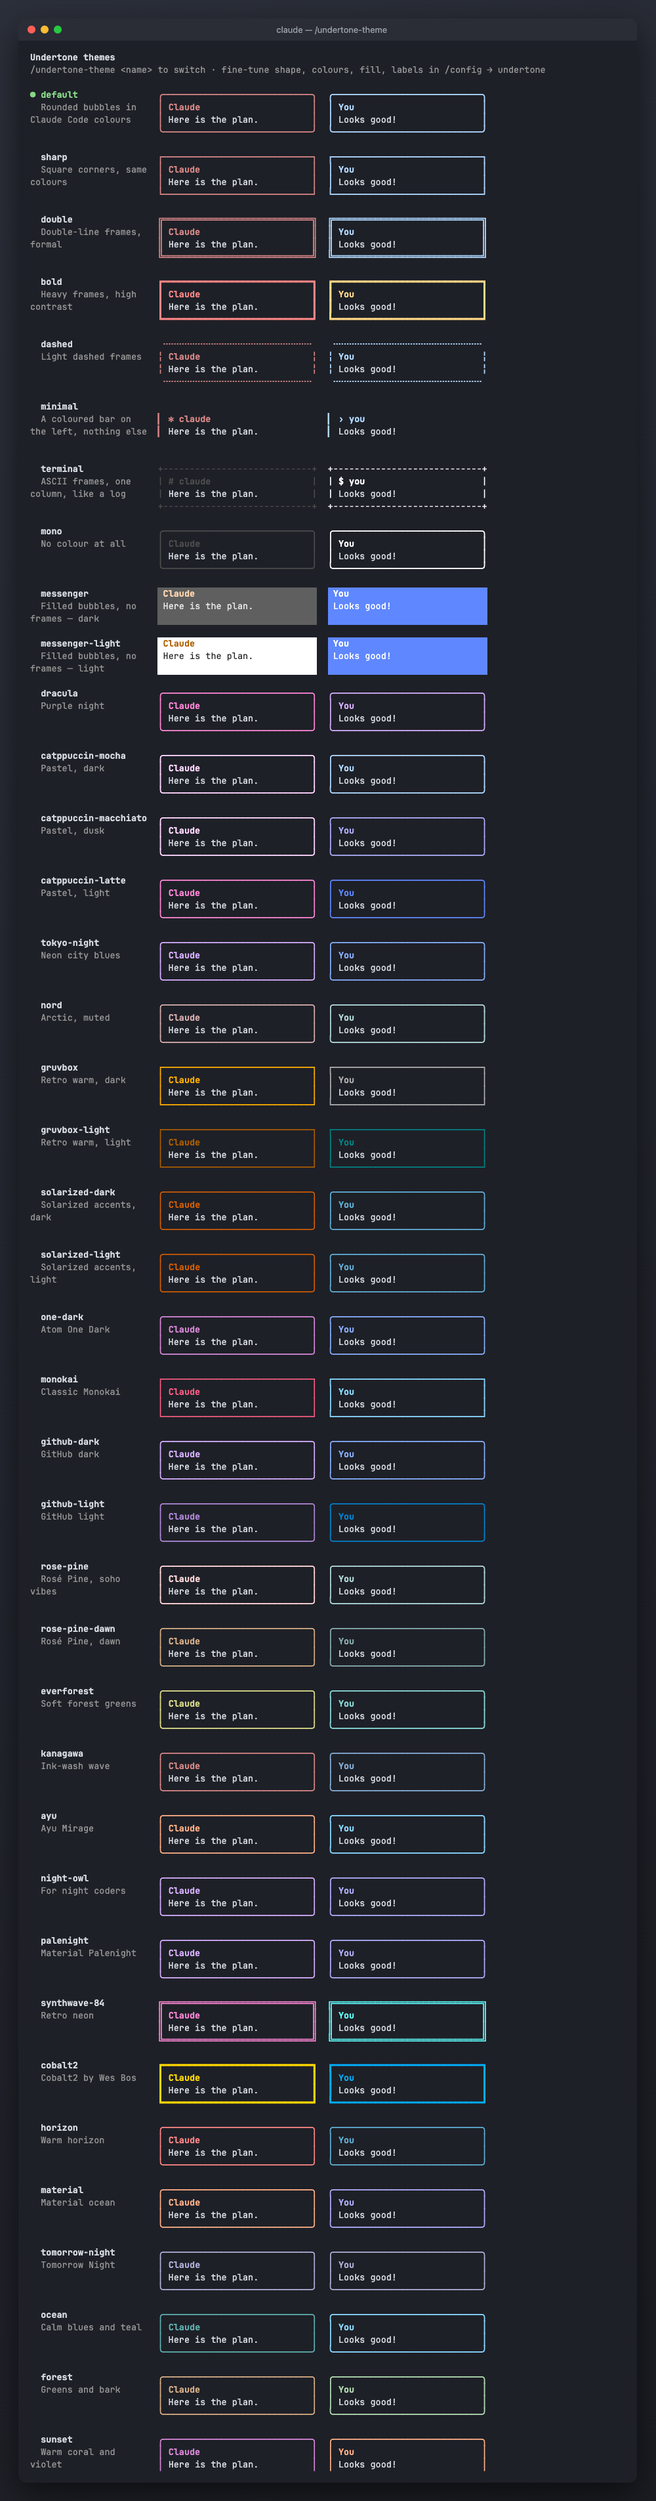
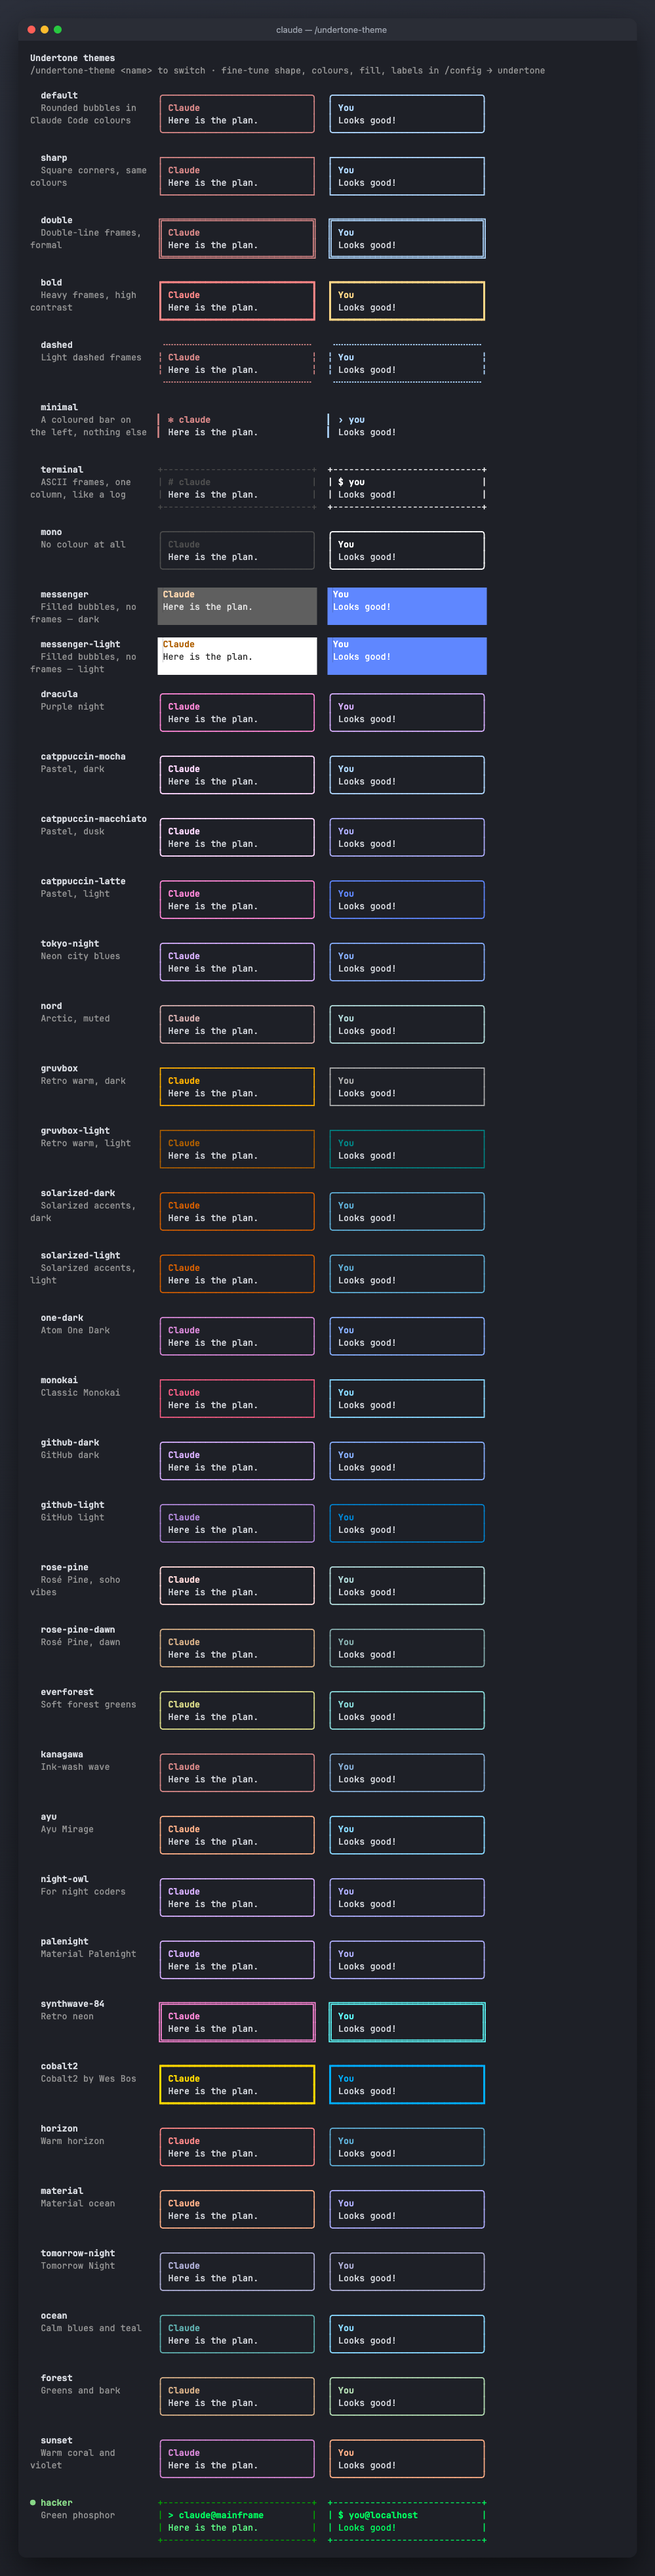
feat: hacker theme
Green phosphor on black: ASCII frames down the left like a session log, with
you@localhost $ and claude@mainframe > as the labels. New README screenshot and
an updated theme gallery.

Changed region(s): [[0.0621, 0.0, 0.7447, 0.9995]]

diff --git a/tests/themes.test.tsx b/tests/themes.test.tsx
@@ -3,7 +3,7 @@ import { expect, test } from 'claude-code/testing'
 const P = 'undertone'
 const CMD = { origin: { kind: 'composer' }, presentation: { isFullscreen: false, columns: 80 } } as const
 const NOW = Date.UTC(2026, 10, 3, 8, 0)
-const THEMES = ["default", "sharp", "double", "bold", "dashed", "minimal", "terminal", "mono", "messenger", "messenger-light", "dracula", "catppuccin-mocha", "catppuccin-macchiato", "catppuccin-latte", "tokyo-night", "nord", "gruvbox", "gruvbox-light", "solarized-dark", "solarized-light", "one-dark", "monokai", "github-dark", "github-light", "rose-pine", "rose-pine-dawn", "everforest", "kanagawa", "ayu", "night-owl", "palenight", "synthwave-84", "cobalt2", "horizon", "material", "tomorrow-night", "ocean", "forest", "sunset"]
+const THEMES = ["default", "sharp", "double", "bold", "dashed", "minimal", "terminal", "mono", "messenger", "messenger-light", "dracula", "catppuccin-mocha", "catppuccin-macchiato", "catppuccin-latte", "tokyo-night", "nord", "gruvbox", "gruvbox-light", "solarized-dark", "solarized-light", "one-dark", "monokai", "github-dark", "github-light", "rose-pine", "rose-pine-dawn", "everforest", "kanagawa", "ayu", "night-owl", "palenight", "synthwave-84", "cobalt2", "horizon", "material", "tomorrow-night", "ocean", "forest", "sunset", "hacker"]
 function base(on: any) {
   on('clock.now', () => ({ value: NOW }))
   on('session.id', () => ({ value: 'sess-1' }))

diff --git a/hooks/register.tsx b/hooks/register.tsx
@@ -96,6 +96,12 @@ for (const [name, desc, you, claude, surface, text, shape = 'round', divider = '
   THEMES[name] = look(desc, side(shape, you, 'You'), side(shape, claude, 'Claude'), { chip: you, chipHover: claude, divider })
   SURFACE[name] = { surface, text }
 }
+// Green phosphor on black: ASCII frames down the left like a session log, shell-prompt labels.
+THEMES.hacker = look('Green phosphor',
+  side('classic', '#00FF41', 'you@localhost', { icon: '$', text: '#00FF41' }),
+  side('classic', '#008F11', 'claude@mainframe', { icon: '>', label: '#00FF41', text: '#33FF66' }),
+  { userAlign: 'left', divider: '=', chip: '#008F11', chipHover: '#00FF41' })
+SURFACE.hacker = { surface: '#0D0208', text: '#00FF41' }
 
 // Light and dark versions of one look, for "Light by day, dark by night".
 const DAY_NIGHT: [day: string, night: string][] = [

diff --git a/README.md b/README.md
@@ -233,16 +233,20 @@ The same conversation in three of them: `default`, `dracula`, and `messenger` (f
   <tr><td align="center"><code>default</code></td><td align="center"><code>dracula</code></td><td align="center"><code>messenger</code></td></tr>
 </table>
 
+And `hacker`: green phosphor, ASCII frames down the left like a session log, and shell-prompt labels.
+
+![The hacker theme: you@localhost and claude@mainframe in green ASCII frames, a status table, a bash line and a flowchart](docs/theme-hacker.png)
+
 ![The theme gallery from /undertone-theme](docs/themes.png)
 
-**39 presets**, every one previewable with `/undertone-theme` and switchable on the spot:
+**40 presets**, every one previewable with `/undertone-theme` and switchable on the spot:
 
 | Group | Presets |
 |---|---|
 | Shapes, in your terminal's own colours | `default` (rounded) · `sharp` · `double` · `bold` · `dashed` · `minimal` (a left bar) · `terminal` (ASCII, one column) · `mono` |
 | Filled, like a messaging app | `messenger` · `messenger-light` |
 | Inspired by popular editor themes | `dracula` · `catppuccin-mocha` · `catppuccin-macchiato` · `catppuccin-latte` · `tokyo-night` · `nord` · `gruvbox` · `gruvbox-light` · `solarized-dark` · `solarized-light` · `one-dark` · `monokai` · `github-dark` · `github-light` · `rose-pine` · `rose-pine-dawn` · `everforest` · `kanagawa` · `ayu` · `night-owl` · `palenight` · `synthwave-84` · `cobalt2` · `horizon` · `material` · `tomorrow-night` |
-| undertone originals | `ocean` · `forest` · `sunset` · `random` (a dark preset each load) |
+| undertone originals | `ocean` · `forest` · `sunset` · `hacker` (green phosphor, ASCII frames, shell-prompt labels) · `random` (a dark preset each load) |
 
 Then fine-tune any part in `/config → undertone`: **bubble style** (framed or filled, for any theme), **shape** per
 side (rounded, sharp, double, bold, dashed, ascii, bar, none), **colours** (border, fill, text; hex, `rgb()`,
@@ -339,7 +343,7 @@ Don't also install the published copy on the same machine, or both will draw eve
 
 ```bash
 claude plugin validate .   # what the engine will load, and what it would refuse
-claude plugin test .       # 353 tests: every feature, every theme in every style, tables at 4 widths
+claude plugin test .       # 356 tests: every feature, every theme in every style, tables at 4 widths
 ```
 
 CI runs `validate` and `test` on every push and pull request, and weekly against the latest Claude Code. The type check needs the engine types Claude Code
